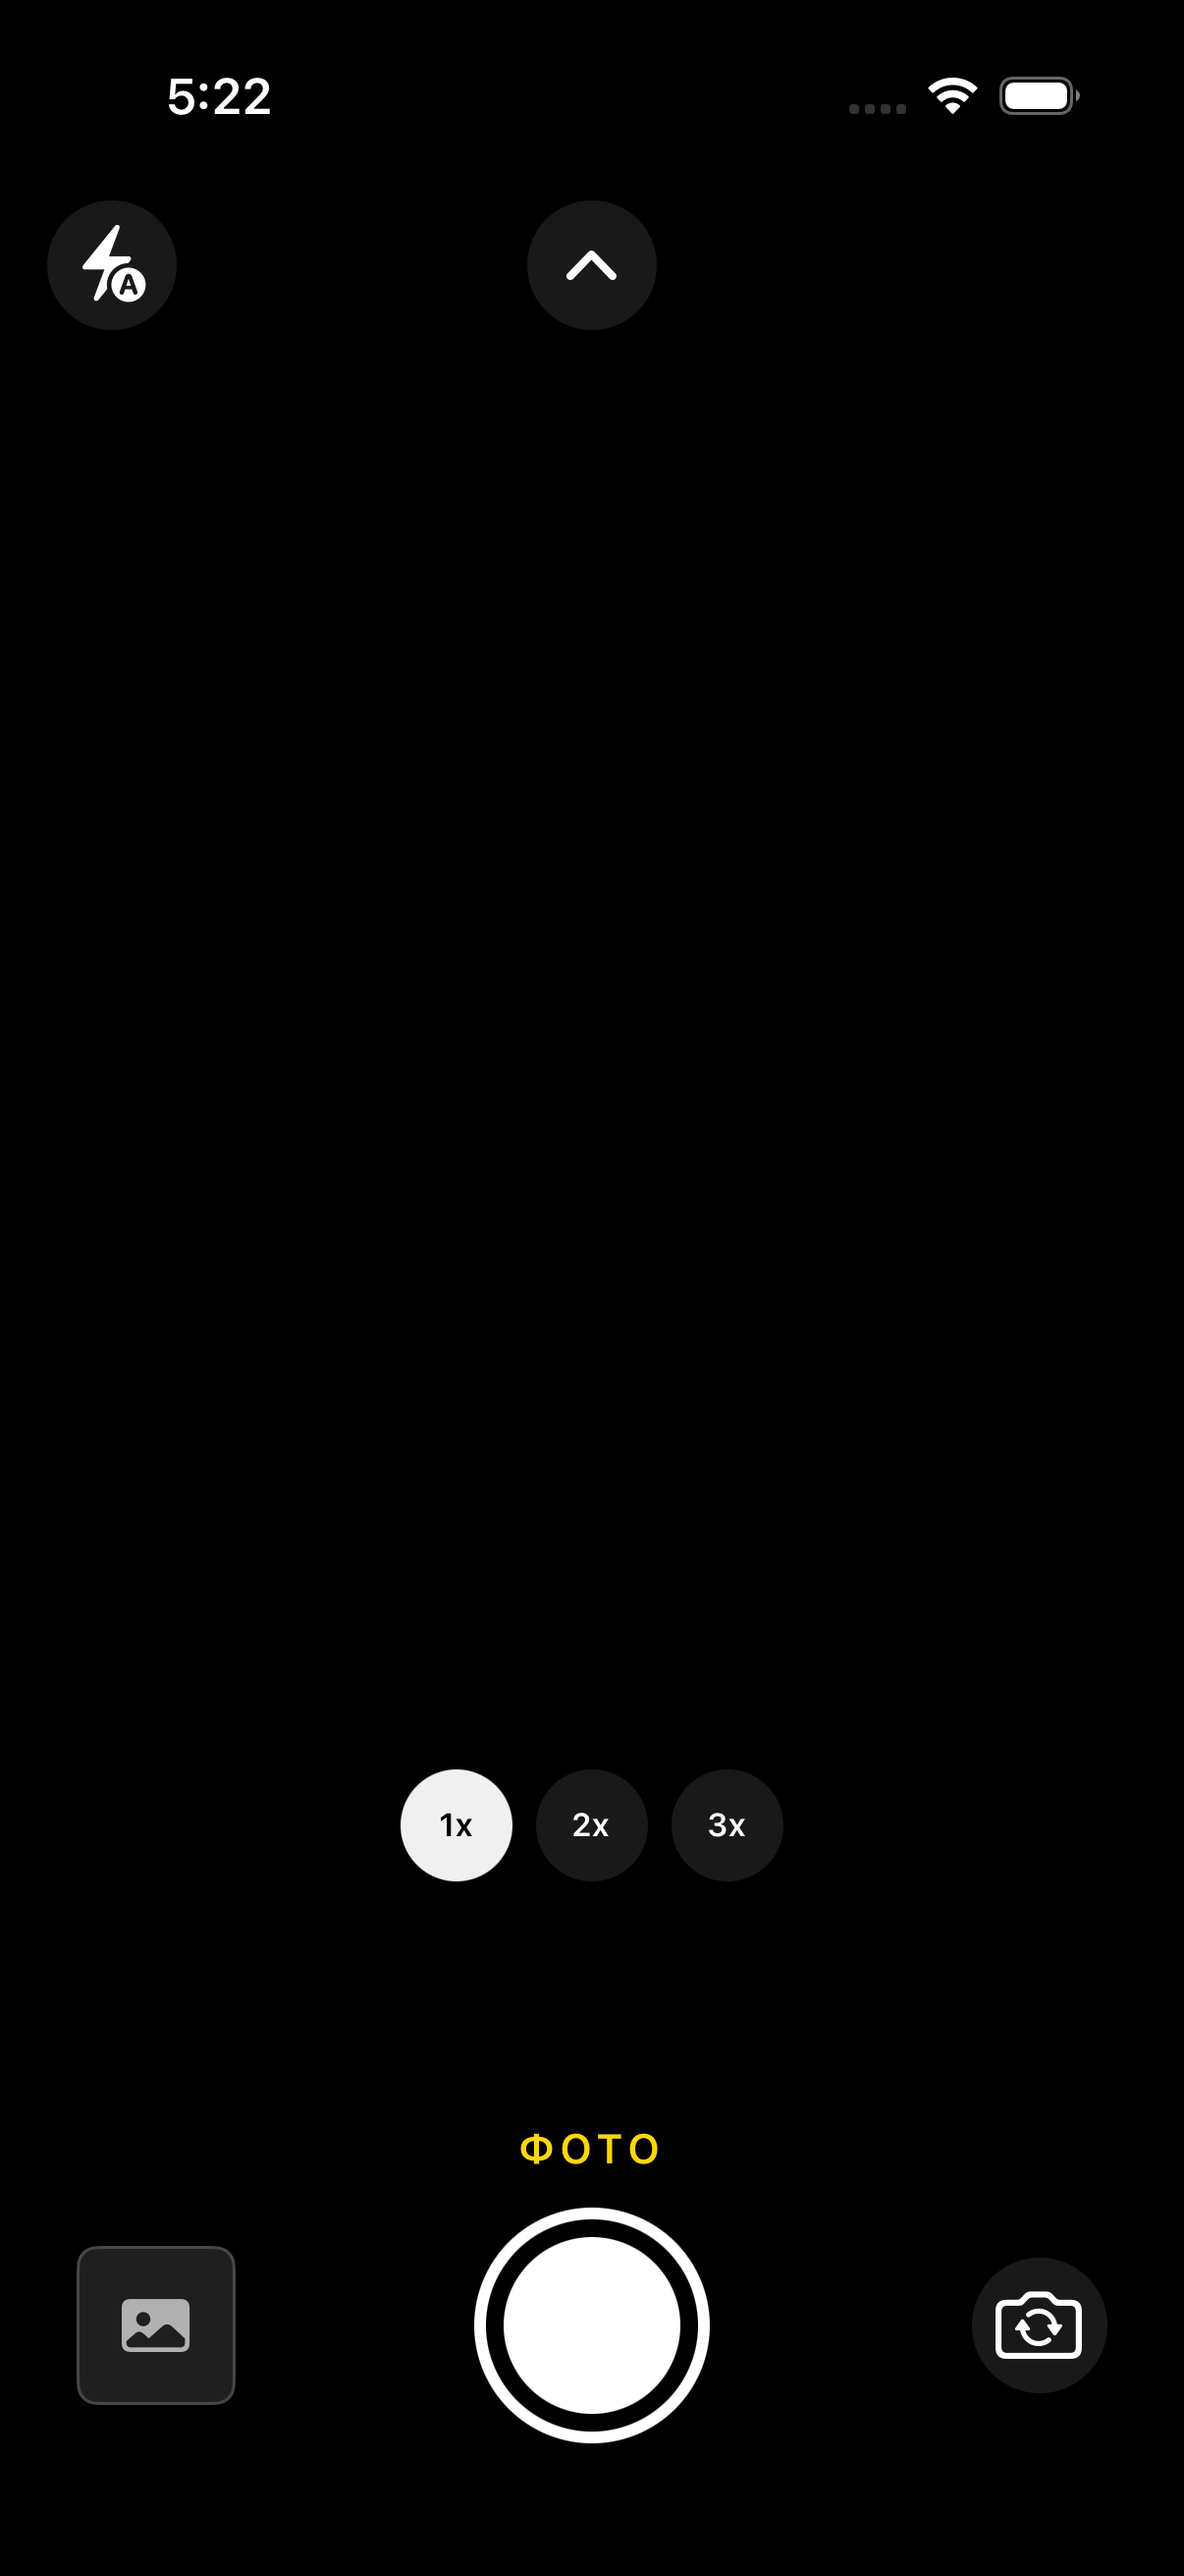
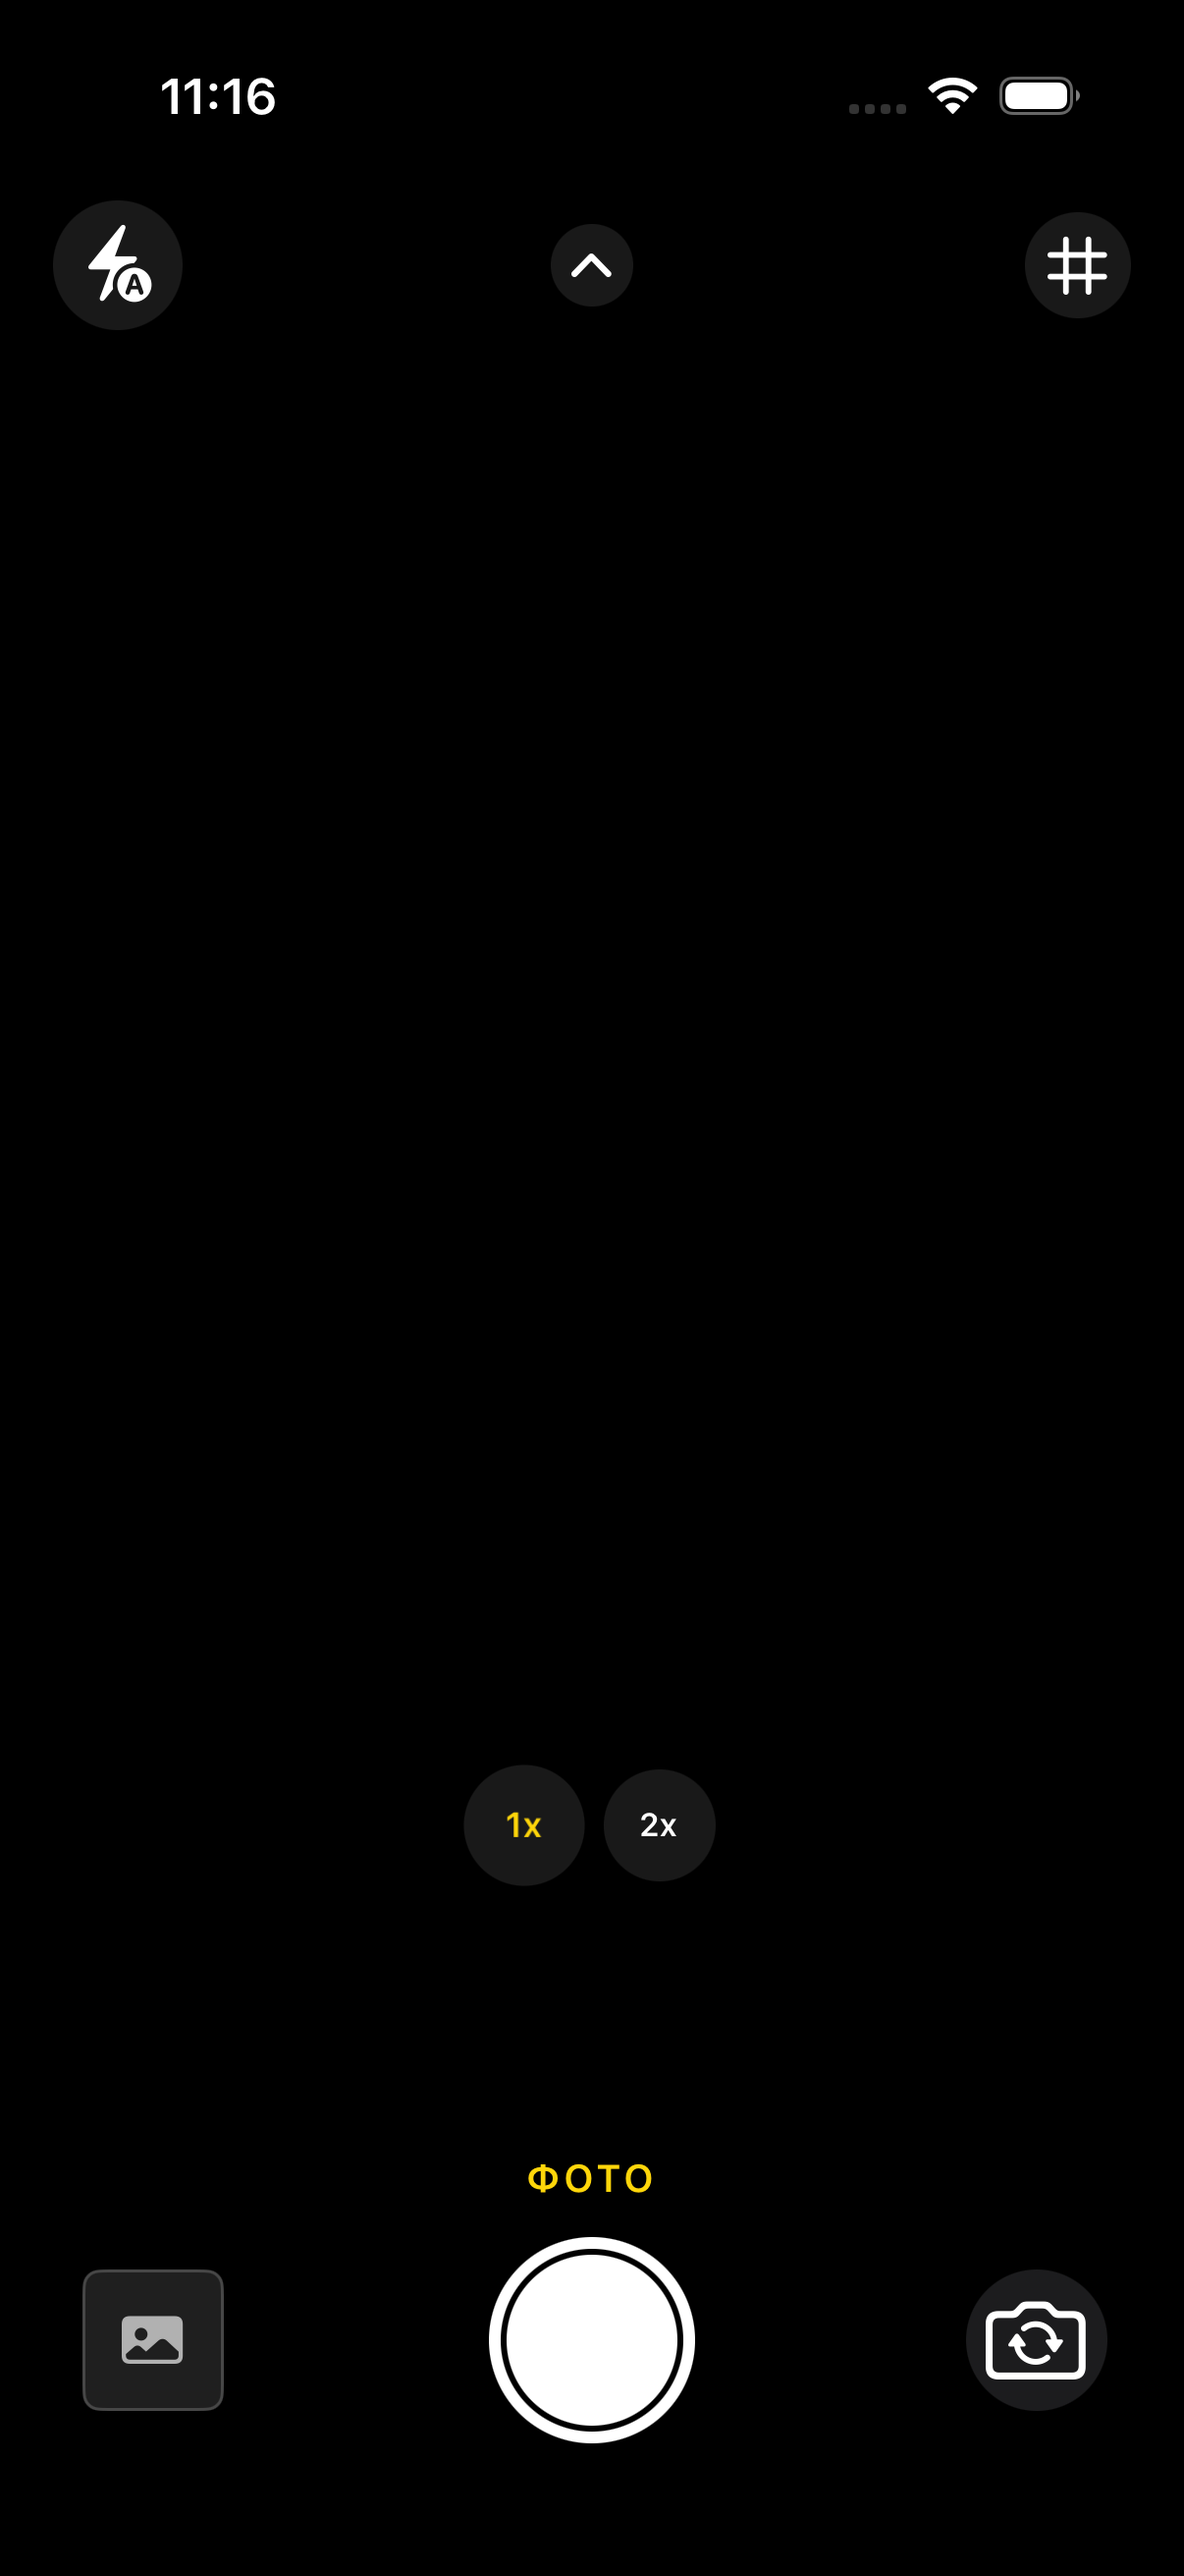
Update screenshots for the filter palette

diff --git a/README.md b/README.md
@@ -8,7 +8,7 @@
 Приложение написано на Swift и UIKit. Используются только AVFoundation, Core Image и Photos — без CocoaPods и SPM.
 
 <p align="center">
-  <img src="Screenshots/shutter.png" width="310" alt="Ручная выдержка">
+  <img src="Screenshots/filters.png" width="310" alt="Фильтры и палитра">
   <img src="Screenshots/camera.png" width="310" alt="Главный экран">
 </p>
 <p align="center"><sub>Скриншоты из iOS Simulator: в нём нет камеры, поэтому видоискатель чёрный.</sub></p>
